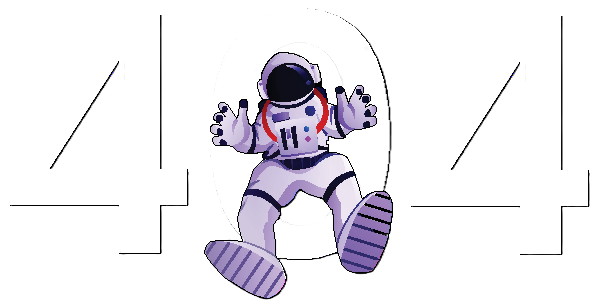
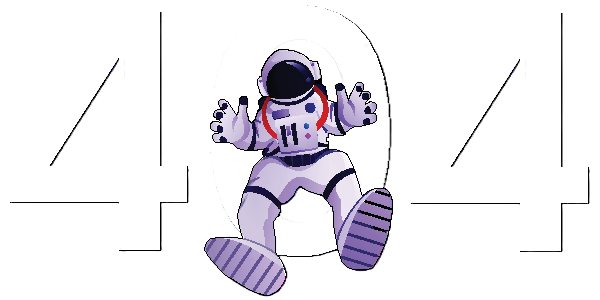
error page done colors and image with theme

diff --git a/src/routes/+error.svelte b/src/routes/+error.svelte
@@ -1,4 +1,5 @@
 <script>
+  import { theme } from '$lib/theme';
   // import { page } from '$app/stores';
   import { goto } from '$app/navigation';
   import { isMenuOpen } from '$lib/menuStore';
@@ -17,17 +18,22 @@
 <main class="flex flex-col items-center justify-center min-h-screen px-4 pb-8">
 
   <!-- Error Image -->
-  <img src={"/images/notFoundDark.png"} alt="Page Not Found" class="max-w-md w-full mb-4" loading="lazy" />
+  {#if $theme === 'light'}
+    <img src={"/images/notFoundLight.png"} alt="Page Not Found" class="max-w-md w-full mb-4" loading="lazy" />
+  {:else}
+    <img src={"/images/notFoundDark.png"} alt="Page Not Found" class="max-w-md w-full mb-4" loading="lazy" />
+  {/if}
+  
 
   <!-- Error Message -->
-  <h1 class="text-3xl sm:text-4xl md:text-5xl font-semibold text-center text-balance poppins text-violet-500 dark:text-violet-400 my-4">Oops! Page not found.</h1>
+  <h1 class="text-3xl sm:text-4xl md:text-5xl font-semibold text-center text-balance poppins text-violet-700 dark:text-violet-400 my-4">Oops! Page not found.</h1>
   <p class="text-base sm:text-lg md:text-xl text-center text-pretty poppins text-gray-700 dark:text-slate-300 mb-6">
       We're sorry, but the page you are looking for does not exist.
   </p>
 
   <!-- Return Home Button -->
-  <button on:click={redirectToHome} class="relative text-base sm:text-lg md:text-xl font-medium poppins overflow-hidden px-6 py-3 rounded-full bg-gray-100 text-slate-950 cursor-pointer z-10 hover:bg-gray-200 duration-200 group/GoHomeBtn whitespace-nowrap focus:outline-none focus:ring-2 focus:ring-violet-400 focus:ring-opacity-50" tabindex={$isMenuOpen ? -1 : 0} aria-label="Return to Homepage">
-    <div class="absolute top-0 right-full w-full h-full bg-violet-800 opacity-20 group-hover/GoHomeBtn:translate-x-full z-0 duration-200"></div>
+  <button on:click={redirectToHome} class="relative text-base sm:text-lg md:text-xl font-medium poppins overflow-hidden px-6 py-3 rounded-full bg-white dark:bg-gray-100 text-violet-700 dark:text-slate-900 cursor-pointer z-10 hover:bg-gray-50 dark:hover:bg-gray-200 duration-200 group/GoHomeBtn whitespace-nowrap focus:outline-none focus:ring-2 focus:ring-violet-400 focus:ring-opacity-50 border border-violet-400 dark:order-violet-700" tabindex={$isMenuOpen ? -1 : 0} aria-label="Return to Homepage">
+    <div class="absolute top-0 right-full w-full h-full bg-violet-400 dark:bg-violet-800 opacity-20 group-hover/GoHomeBtn:translate-x-full z-0 duration-200"></div>
       Return to Homepage
   </button>
 

diff --git a/src/components/Header.svelte b/src/components/Header.svelte
@@ -95,7 +95,7 @@
 
  
 <!-- <header class={"sticky z-[2] top-0 duration-200 px-4 flex items-center justify-between border-b border-solid " + (y > 0 ? " py-4 bg-slate-950 border-violet-950" : " py-6 bg-transparent border-transparent")}> -->
-  <header class={"sticky z-[2] top-0 duration-200 px-4 flex items-center justify-between border-b border-solid " + (y > 0 && !isOpen ? " py-4 bg-blue-300 dark:bg-slate-950 border-gray-300 dark:border-violet-950" : " py-6 bg-transparent border-transparent")}>
+  <header class={"sticky z-[2] top-0 duration-200 px-4 flex items-center justify-between border-b border-solid " + (y > 0 && !isOpen ? " py-4 bg-blue-300 dark:bg-slate-950 border-gray-800 dark:border-violet-950" : " py-6 bg-transparent border-transparent")}>
 
   <div class="flex items-center justify-between w-full">
     <h1 bind:this={logo} class="font-medium z-[3]" id="logo" aria-label="Logo: Elena Shatalova">

diff --git a/src/components/Step.svelte b/src/components/Step.svelte
@@ -37,7 +37,7 @@
   });
 </script>
 
-  <div style="height: {height}" class="p-4 sm:p-6 md:p-8 flex flex-col gap-4 rounded-lg border border-solid border-violet-600 dark:border-violet-700 text-center cursor-default group hover:border-violet-800 dark:hover:border-violet-400 duration-200 transition-height hover:shadow-md hover:shadow-violet-600/50">
+  <div style="height: {height}" class="p-4 sm:p-6 md:p-8 flex flex-col gap-4 rounded-lg border border-solid border-violet-600 dark:border-violet-700 text-center cursor-default group hover:border-violet-800 dark:hover:border-violet-400 duration-200 transition-height">
   <div class="bg-blue-300 dark:bg-slate-950 grid place-items-center px-4 text-5xl md:text-6xl -mt-10 sm:-mt-12 md:-mt-14 lg:-mt-16 mx-auto duration-200">
     <i class={step.icon} />
   </div>

diff --git a/src/components/Footer.svelte b/src/components/Footer.svelte
@@ -72,7 +72,7 @@
   import { theme } from '$lib/theme';
 </script>
 
-<footer class="py-5 sm:py-10 bg-blue-700 dark:bg-black border-t border-solid border-gray-300 flex flex-col gap-2 sm:gap-4 justify-center items-center">
+<footer class="py-5 sm:py-10 bg-blue-700 dark:bg-black border-t border-solid border-gray-800 flex flex-col gap-2 sm:gap-4 justify-center items-center">
   <div class="container max-w-screen-lg mx-auto flex flex-wrap justify-center">
     <nav>
       <ul class="flex gap-2 md:gap-4">
